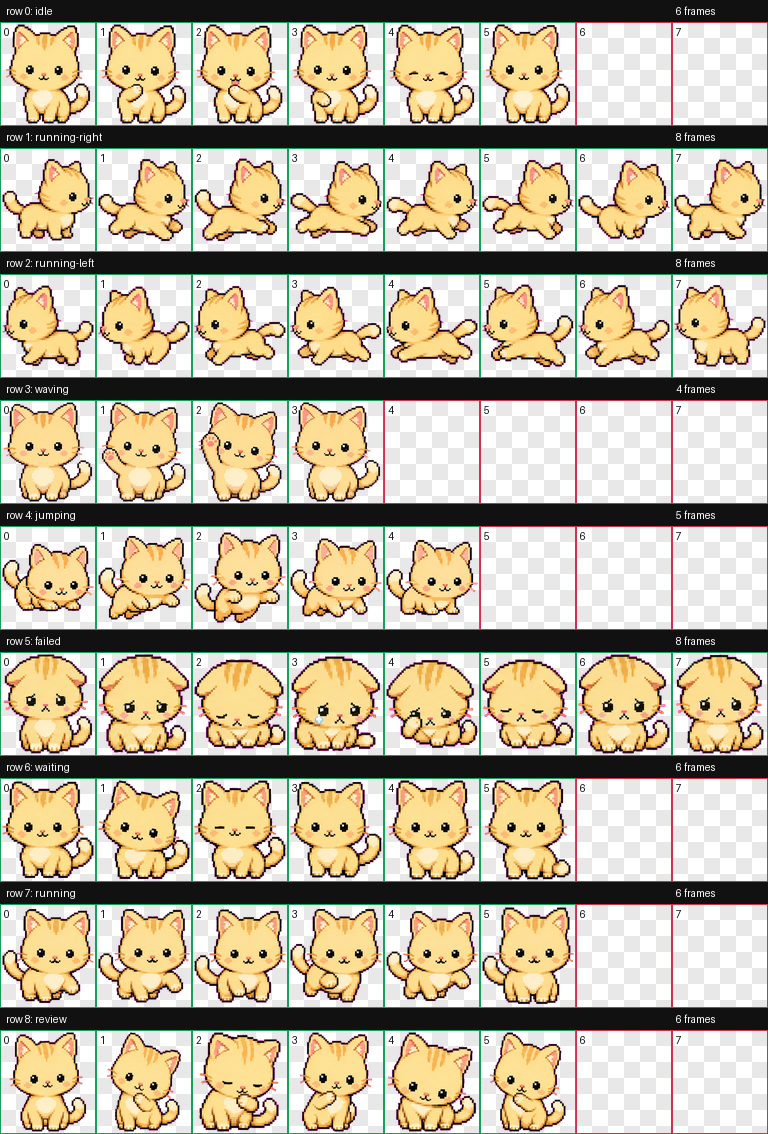
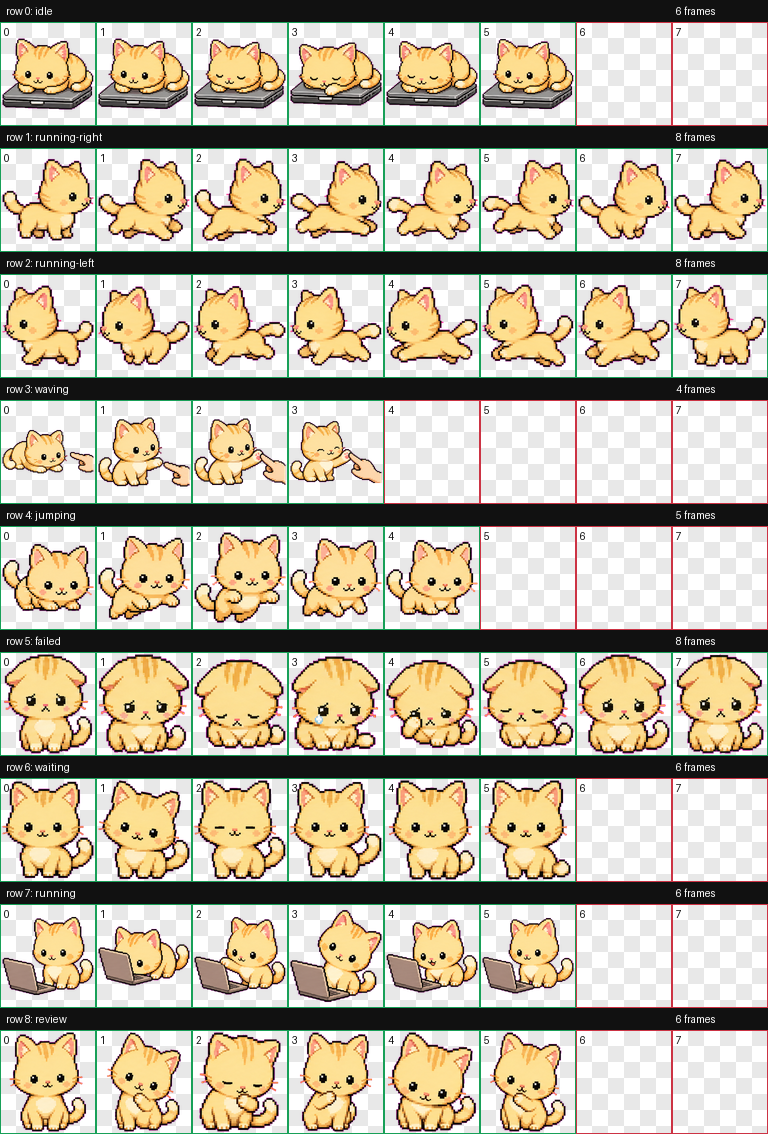
Update Mimi laptop state animations

Changed region(s): [[0.0, 0.0, 0.75, 0.1235], [0.0, 0.8025, 0.75, 0.8951], [0.0, 0.3395, 0.5, 0.463]]

diff --git a/CONVERSATION_SUMMARY.md b/CONVERSATION_SUMMARY.md
@@ -80,3 +80,20 @@ Mimi 的稳定身份：
 - 手表：两列三行排布，提供 `410x502` 和 `396x484`
 
 壁纸仍保持纯白背景，只加很淡的小爪印和小星点；不加入文字、代码符号或工程隐喻。
+
+## Laptop State Update
+
+用户进一步明确 Codex 状态语义：
+
+- 回答问题、正在输出时：Mimi 应该像猫科动物一样好奇地玩一台打开的笔记本，不是敲键盘
+- 空闲时：Mimi 在一台合上的笔记本上休息
+- 鼠标点击 Mimi 时：Mimi 坐起来贴手
+- 其他状态保持不变
+
+因此只替换了三条动画行：
+
+- `idle`: 6 帧，趴在合上的笔记本上休息、眨眼和轻微呼吸
+- `running`: 6 帧，围着打开的笔记本好奇看、嗅、轻碰
+- `waving`: 4 帧，坐起来并用前爪贴手
+
+重新打包后，`validation.json` 和 `review.json` 仍然无错误、无警告。

diff --git a/README.md b/README.md
@@ -48,9 +48,13 @@ Mimi 是一只完整身体的奶油金色动漫像素小猫。最终产物包括
 
 ## Latest Update
 
-停下来的 `idle` 动画已改成更可爱的舔爪动作：Mimi 只抬同一只前爪舔一次，然后放下并回到站好状态，不做左右来回切换。
+Mimi 的 Codex 状态语义已更新：
 
-这六帧动作也已做进白底壁纸：
+- `idle`: Codex 空闲时，Mimi 在一台合上的笔记本上休息
+- `running`: Codex 正在输出时，Mimi 好奇地玩一台打开的笔记本，不敲键盘
+- `waving`: 鼠标点击时，Mimi 坐起来和手贴爪
+
+上一版的六帧舔爪动作仍保留在白底序列壁纸中：
 
 - `mimi-idle-sequence-desktop-3840x2160-white.png`
 - `mimi-idle-sequence-phone-1440x3200-white.png`

diff --git a/design-notes/row-prompts/idle.md b/design-notes/row-prompts/idle.md
@@ -17,6 +17,8 @@ Use this prompt as an authoritative sprite-production spec. Do not expand it int
 
 Animation action: neutral breathing/blinking loop.
 
+Latest override: Codex idle state now shows Mimi resting on top of a closed laptop. The laptop is closed, compact, muted warm gray, with no logo, no text, and no symbols. Mimi should look relaxed and sleepy, using only tiny breathing, blinking, and nestling motion.
+
 
 State-specific requirements:
 - CRITICAL: idle is the low-distraction baseline state and the first frame is also used as the reduced-motion static pet.

diff --git a/design-notes/row-prompts/running.md b/design-notes/row-prompts/running.md
@@ -17,6 +17,8 @@ Use this prompt as an authoritative sprite-production spec. Do not expand it int
 
 Animation action: active working/in-progress loop.
 
+Latest override: Codex output state now shows Mimi curiously playing with an open laptop like a cat. Mimi may peek at the screen edge, sniff the laptop, place one tiny paw on a corner, tilt her head, and watch the screen. She must not type, sit like a human worker, or show code/text on the laptop.
+
 
 State-specific requirements:
 - Show the pet actively working or processing, as if running a task: focused posture, busy hands or paws, purposeful bobbing, thinking motion, tool/prop motion only if already part of the pet identity, or other non-locomotion activity.

diff --git a/design-notes/row-prompts/waving.md b/design-notes/row-prompts/waving.md
@@ -17,6 +17,8 @@ Use this prompt as an authoritative sprite-production spec. Do not expand it int
 
 Animation action: greeting gesture with raised wave and return.
 
+Latest override: Mouse-click interaction now shows Mimi sitting up and touching a small simplified human hand with one paw, like a cute paw high-five. Avoid hearts, exclamation marks, motion marks, sparkles, wave marks, or any other detached effects.
+
 
 State-specific requirements:
 - Show the greeting through paw pose only: paw down, paw raised, paw tilted, paw returning.